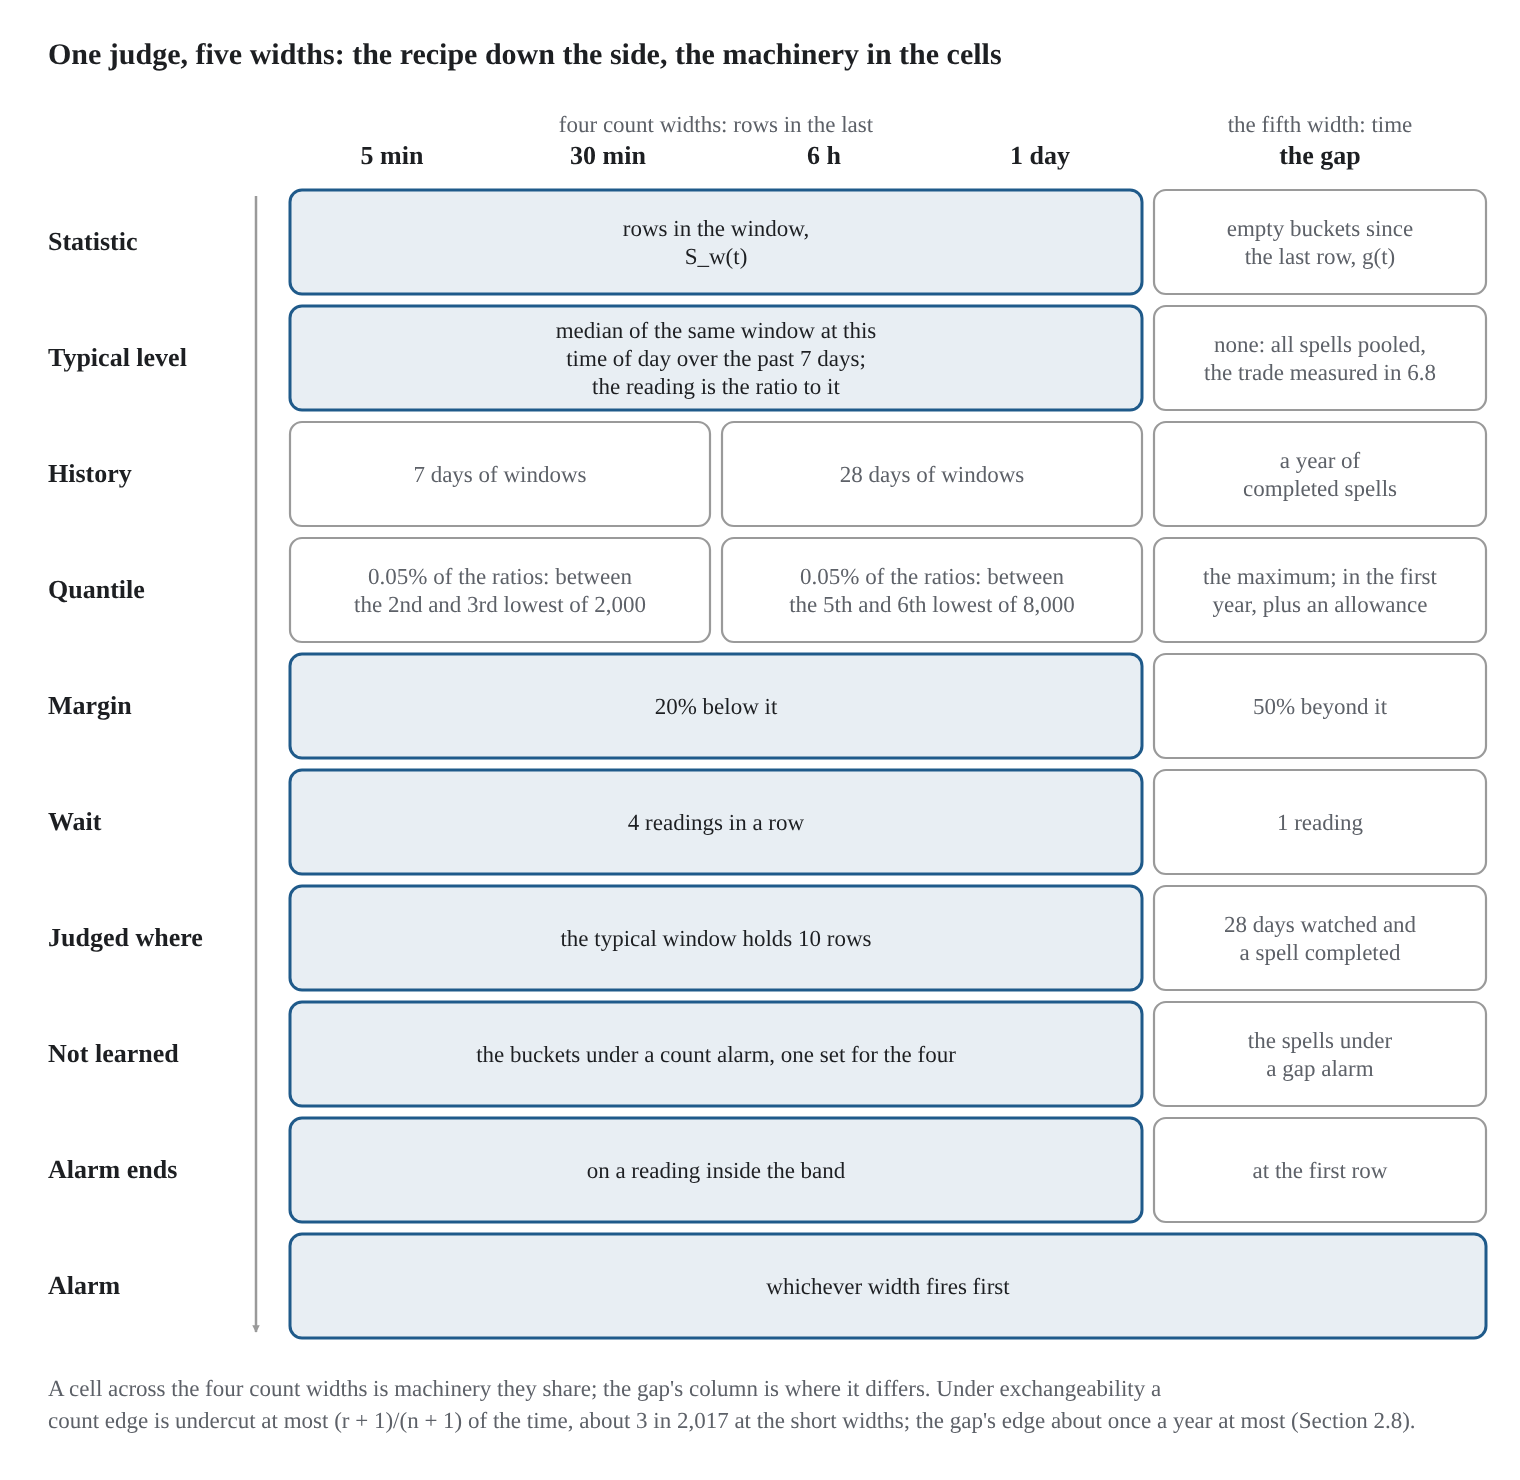
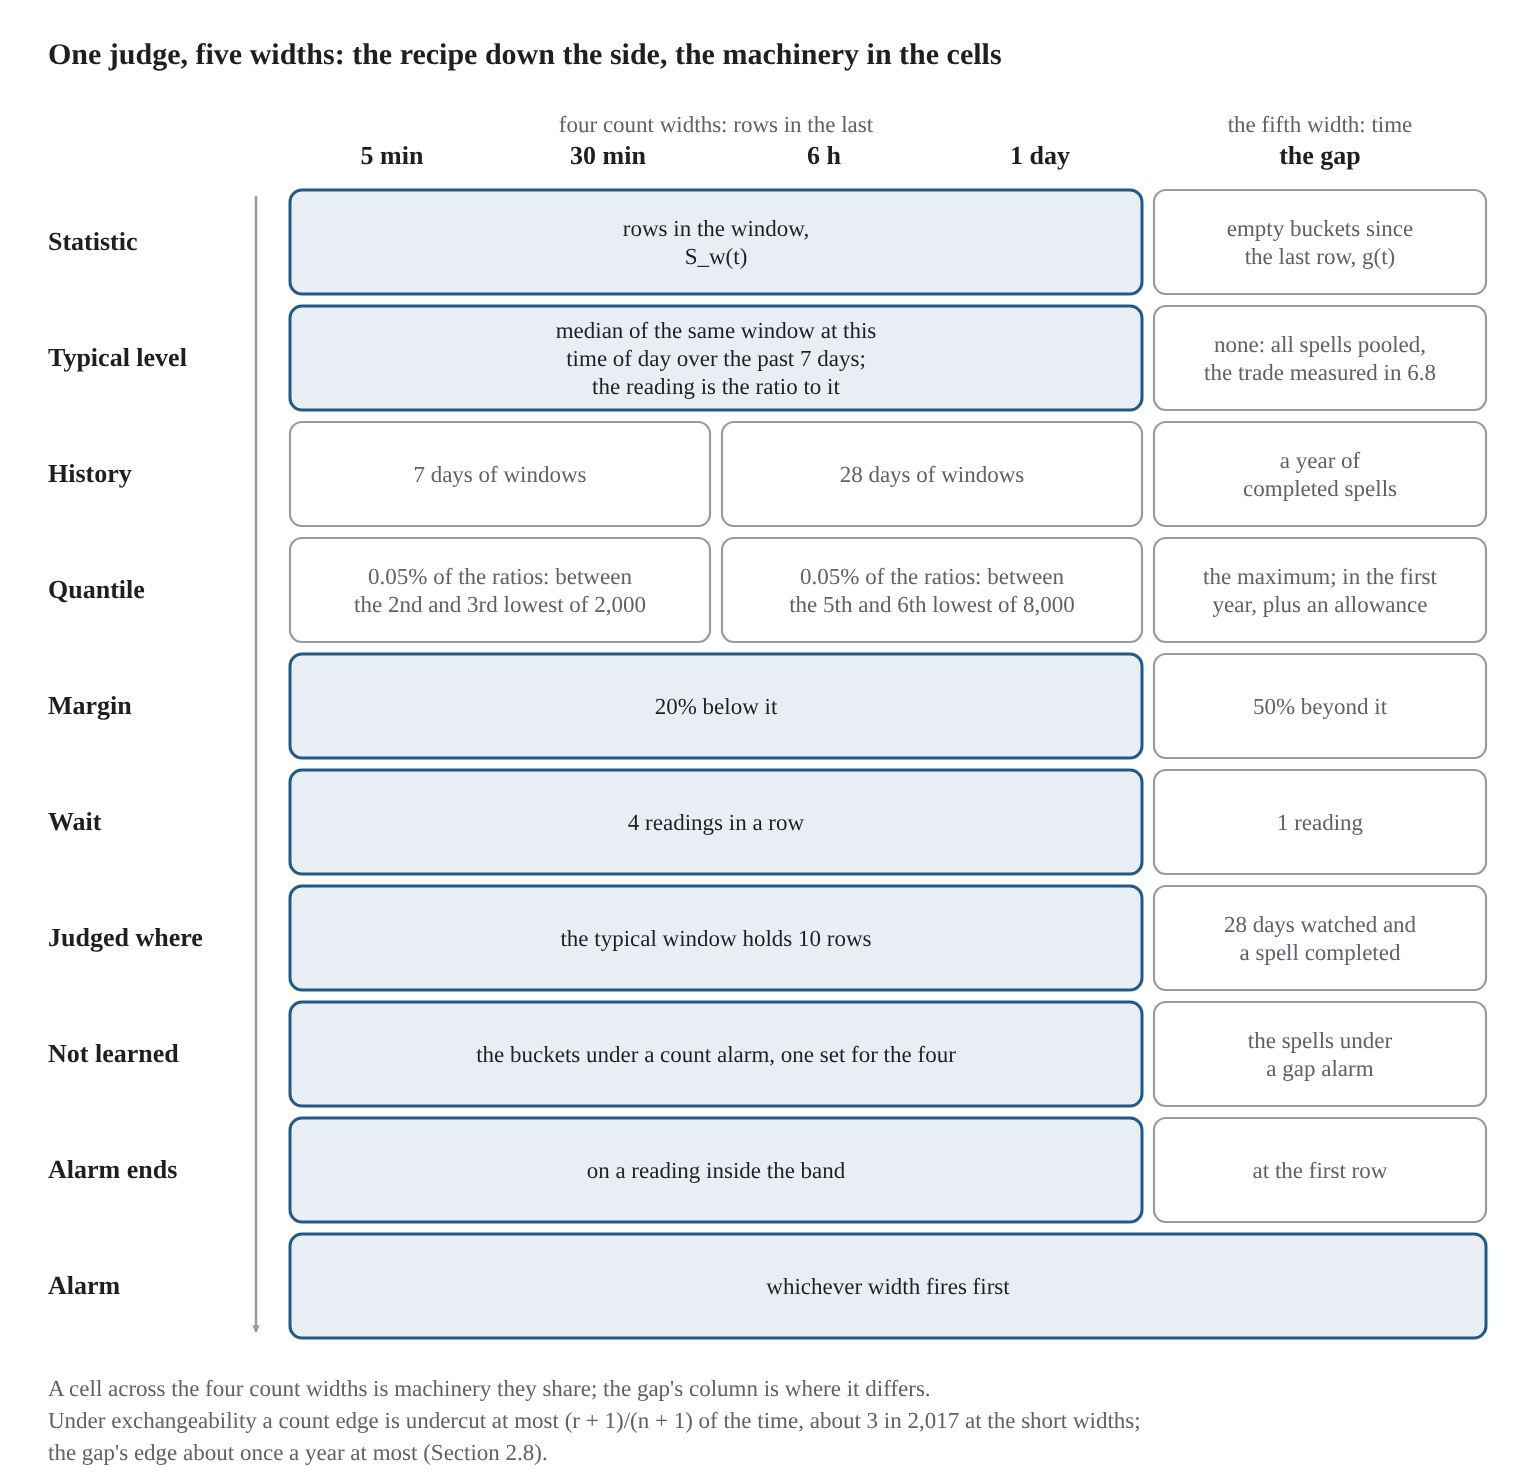
Normal detector paper: wrap Figure 1's note onto three lines
The second line ran past the figure's right edge.

Claude-Session: https://claude.ai/code/session_016X7h2Sq8GvdEAViup8sqLr

Changed region(s): [[0.0309, 0.9324, 0.773, 0.9946]]

diff --git a/docs/research/normal-detector/lab/diagram_code.js b/docs/research/normal-detector/lab/diagram_code.js
@@ -1,1 +1,1 @@
-export default () => { const edge = 'var(--cds-chart-axis)', accent = 'var(--cds-chart-categorical-1)', ink = 'var(--cds-text-primary)', quiet = 'var(--cds-text-secondary)'; return <svg viewBox='0 0 760 722' role='img' aria-label='One judge at five widths: the recipe down the side, the machinery in the cells' fontSize='13'><defs><marker id='rec-arrow' viewBox='0 0 10 10' refX='9' refY='5' markerWidth='6' markerHeight='6' orient='auto-start-reverse'><path d='M0 0L10 5L0 10z' fill={edge}/></marker></defs><text x='24' y='32' fontSize='15' fontWeight='600' fill={ink}>One judge, five widths: the recipe down the side, the machinery in the cells</text><text x='358' y='66' textAnchor='middle' fontSize='11.5' fill={quiet}>four count widths: rows in the last</text><text x='196' y='82' textAnchor='middle' fontWeight='600' fill={ink}>5 min</text><text x='304' y='82' textAnchor='middle' fontWeight='600' fill={ink}>30 min</text><text x='412' y='82' textAnchor='middle' fontWeight='600' fill={ink}>6 h</text><text x='520' y='82' textAnchor='middle' fontWeight='600' fill={ink}>1 day</text><text x='660' y='66' textAnchor='middle' fontSize='11.5' fill={quiet}>the fifth width: time</text><text x='660' y='82' textAnchor='middle' fontWeight='600' fill={ink}>the gap</text><text x='24' y='125' fontWeight='600' fill={ink}>Statistic</text><rect x='145' y='95' width='426' height='52' rx='6' fill={accent} fillOpacity='0.1' stroke={accent} strokeWidth='1.5'/><text x='358' y='118' textAnchor='middle' fontSize='11.5' fill={ink}>rows in the window,</text><text x='358' y='132' textAnchor='middle' fontSize='11.5' fill={ink}>S_w(t)</text><rect x='577' y='95' width='166' height='52' rx='6' fill={accent} fillOpacity='0' stroke={edge} strokeWidth='1.1'/><text x='660' y='118' textAnchor='middle' fontSize='11.5' fill={quiet}>empty buckets since</text><text x='660' y='132' textAnchor='middle' fontSize='11.5' fill={quiet}>the last row, g(t)</text><text x='24' y='183' fontWeight='600' fill={ink}>Typical level</text><rect x='145' y='153' width='426' height='52' rx='6' fill={accent} fillOpacity='0.1' stroke={accent} strokeWidth='1.5'/><text x='358' y='169' textAnchor='middle' fontSize='11.5' fill={ink}>median of the same window at this</text><text x='358' y='183' textAnchor='middle' fontSize='11.5' fill={ink}>time of day over the past 7 days;</text><text x='358' y='197' textAnchor='middle' fontSize='11.5' fill={ink}>the reading is the ratio to it</text><rect x='577' y='153' width='166' height='52' rx='6' fill={accent} fillOpacity='0' stroke={edge} strokeWidth='1.1'/><text x='660' y='176' textAnchor='middle' fontSize='11.5' fill={quiet}>none: all spells pooled,</text><text x='660' y='190' textAnchor='middle' fontSize='11.5' fill={quiet}>the trade measured in 6.8</text><text x='24' y='241' fontWeight='600' fill={ink}>History</text><rect x='145' y='211' width='210' height='52' rx='6' fill={accent} fillOpacity='0' stroke={edge} strokeWidth='1.1'/><text x='250' y='241' textAnchor='middle' fontSize='11.5' fill={quiet}>7 days of windows</text><rect x='361' y='211' width='210' height='52' rx='6' fill={accent} fillOpacity='0' stroke={edge} strokeWidth='1.1'/><text x='466' y='241' textAnchor='middle' fontSize='11.5' fill={quiet}>28 days of windows</text><rect x='577' y='211' width='166' height='52' rx='6' fill={accent} fillOpacity='0' stroke={edge} strokeWidth='1.1'/><text x='660' y='234' textAnchor='middle' fontSize='11.5' fill={quiet}>a year of</text><text x='660' y='248' textAnchor='middle' fontSize='11.5' fill={quiet}>completed spells</text><text x='24' y='299' fontWeight='600' fill={ink}>Quantile</text><rect x='145' y='269' width='210' height='52' rx='6' fill={accent} fillOpacity='0' stroke={edge} strokeWidth='1.1'/><text x='250' y='292' textAnchor='middle' fontSize='11.5' fill={quiet}>0.05% of the ratios: between</text><text x='250' y='306' textAnchor='middle' fontSize='11.5' fill={quiet}>the 2nd and 3rd lowest of 2,000</text><rect x='361' y='269' width='210' height='52' rx='6' fill={accent} fillOpacity='0' stroke={edge} strokeWidth='1.1'/><text x='466' y='292' textAnchor='middle' fontSize='11.5' fill={quiet}>0.05% of the ratios: between</text><text x='466' y='306' textAnchor='middle' fontSize='11.5' fill={quiet}>the 5th and 6th lowest of 8,000</text><rect x='577' y='269' width='166' height='52' rx='6' fill={accent} fillOpacity='0' stroke={edge} strokeWidth='1.1'/><text x='660' y='292' textAnchor='middle' fontSize='11.5' fill={quiet}>the maximum; in the first</text><text x='660' y='306' textAnchor='middle' fontSize='11.5' fill={quiet}>year, plus an allowance</text><text x='24' y='357' fontWeight='600' fill={ink}>Margin</text><rect x='145' y='327' width='426' height='52' rx='6' fill={accent} fillOpacity='0.1' stroke={accent} strokeWidth='1.5'/><text x='358' y='357' textAnchor='middle' fontSize='11.5' fill={ink}>20% below it</text><rect x='577' y='327' width='166' height='52' rx='6' fill={accent} fillOpacity='0' stroke={edge} strokeWidth='1.1'/><text x='660' y='357' textAnchor='middle' fontSize='11.5' fill={quiet}>50% beyond it</text><text x='24' y='415' fontWeight='600' fill={ink}>Wait</text><rect x='145' y='385' width='426' height='52' rx='6' fill={accent} fillOpacity='0.1' stroke={accent} strokeWidth='1.5'/><text x='358' y='415' textAnchor='middle' fontSize='11.5' fill={ink}>4 readings in a row</text><rect x='577' y='385' width='166' height='52' rx='6' fill={accent} fillOpacity='0' stroke={edge} strokeWidth='1.1'/><text x='660' y='415' textAnchor='middle' fontSize='11.5' fill={quiet}>1 reading</text><text x='24' y='473' fontWeight='600' fill={ink}>Judged where</text><rect x='145' y='443' width='426' height='52' rx='6' fill={accent} fillOpacity='0.1' stroke={accent} strokeWidth='1.5'/><text x='358' y='473' textAnchor='middle' fontSize='11.5' fill={ink}>the typical window holds 10 rows</text><rect x='577' y='443' width='166' height='52' rx='6' fill={accent} fillOpacity='0' stroke={edge} strokeWidth='1.1'/><text x='660' y='466' textAnchor='middle' fontSize='11.5' fill={quiet}>28 days watched and</text><text x='660' y='480' textAnchor='middle' fontSize='11.5' fill={quiet}>a spell completed</text><text x='24' y='531' fontWeight='600' fill={ink}>Not learned</text><rect x='145' y='501' width='426' height='52' rx='6' fill={accent} fillOpacity='0.1' stroke={accent} strokeWidth='1.5'/><text x='358' y='531' textAnchor='middle' fontSize='11.5' fill={ink}>the buckets under a count alarm, one set for the four</text><rect x='577' y='501' width='166' height='52' rx='6' fill={accent} fillOpacity='0' stroke={edge} strokeWidth='1.1'/><text x='660' y='524' textAnchor='middle' fontSize='11.5' fill={quiet}>the spells under</text><text x='660' y='538' textAnchor='middle' fontSize='11.5' fill={quiet}>a gap alarm</text><text x='24' y='589' fontWeight='600' fill={ink}>Alarm ends</text><rect x='145' y='559' width='426' height='52' rx='6' fill={accent} fillOpacity='0.1' stroke={accent} strokeWidth='1.5'/><text x='358' y='589' textAnchor='middle' fontSize='11.5' fill={ink}>on a reading inside the band</text><rect x='577' y='559' width='166' height='52' rx='6' fill={accent} fillOpacity='0' stroke={edge} strokeWidth='1.1'/><text x='660' y='589' textAnchor='middle' fontSize='11.5' fill={quiet}>at the first row</text><text x='24' y='647' fontWeight='600' fill={ink}>Alarm</text><rect x='145' y='617' width='598' height='52' rx='6' fill={accent} fillOpacity='0.1' stroke={accent} strokeWidth='1.5'/><text x='444' y='647' textAnchor='middle' fontSize='11.5' fill={ink}>whichever width fires first</text><path d='M128 98V666' stroke={edge} strokeWidth='1.25' fill='none' markerEnd='url(#rec-arrow)'/><text x='24' y='698' fontSize='11.5' fill={quiet}>A cell across the four count widths is machinery they share; the gap's column is where it differs. Under exchangeability a</text><text x='24' y='714' fontSize='11.5' fill={quiet}>count edge is undercut at most (r + 1)/(n + 1) of the time, about 3 in 2,017 at the short widths; the gap's edge about once a year at most (Section 2.8).</text></svg>; };
+export default () => { const edge = 'var(--cds-chart-axis)', accent = 'var(--cds-chart-categorical-1)', ink = 'var(--cds-text-primary)', quiet = 'var(--cds-text-secondary)'; return <svg viewBox='0 0 760 738' role='img' aria-label='One judge at five widths: the recipe down the side, the machinery in the cells' fontSize='13'><defs><marker id='rec-arrow' viewBox='0 0 10 10' refX='9' refY='5' markerWidth='6' markerHeight='6' orient='auto-start-reverse'><path d='M0 0L10 5L0 10z' fill={edge}/></marker></defs><text x='24' y='32' fontSize='15' fontWeight='600' fill={ink}>One judge, five widths: the recipe down the side, the machinery in the cells</text><text x='358' y='66' textAnchor='middle' fontSize='11.5' fill={quiet}>four count widths: rows in the last</text><text x='196' y='82' textAnchor='middle' fontWeight='600' fill={ink}>5 min</text><text x='304' y='82' textAnchor='middle' fontWeight='600' fill={ink}>30 min</text><text x='412' y='82' textAnchor='middle' fontWeight='600' fill={ink}>6 h</text><text x='520' y='82' textAnchor='middle' fontWeight='600' fill={ink}>1 day</text><text x='660' y='66' textAnchor='middle' fontSize='11.5' fill={quiet}>the fifth width: time</text><text x='660' y='82' textAnchor='middle' fontWeight='600' fill={ink}>the gap</text><text x='24' y='125' fontWeight='600' fill={ink}>Statistic</text><rect x='145' y='95' width='426' height='52' rx='6' fill={accent} fillOpacity='0.1' stroke={accent} strokeWidth='1.5'/><text x='358' y='118' textAnchor='middle' fontSize='11.5' fill={ink}>rows in the window,</text><text x='358' y='132' textAnchor='middle' fontSize='11.5' fill={ink}>S_w(t)</text><rect x='577' y='95' width='166' height='52' rx='6' fill={accent} fillOpacity='0' stroke={edge} strokeWidth='1.1'/><text x='660' y='118' textAnchor='middle' fontSize='11.5' fill={quiet}>empty buckets since</text><text x='660' y='132' textAnchor='middle' fontSize='11.5' fill={quiet}>the last row, g(t)</text><text x='24' y='183' fontWeight='600' fill={ink}>Typical level</text><rect x='145' y='153' width='426' height='52' rx='6' fill={accent} fillOpacity='0.1' stroke={accent} strokeWidth='1.5'/><text x='358' y='169' textAnchor='middle' fontSize='11.5' fill={ink}>median of the same window at this</text><text x='358' y='183' textAnchor='middle' fontSize='11.5' fill={ink}>time of day over the past 7 days;</text><text x='358' y='197' textAnchor='middle' fontSize='11.5' fill={ink}>the reading is the ratio to it</text><rect x='577' y='153' width='166' height='52' rx='6' fill={accent} fillOpacity='0' stroke={edge} strokeWidth='1.1'/><text x='660' y='176' textAnchor='middle' fontSize='11.5' fill={quiet}>none: all spells pooled,</text><text x='660' y='190' textAnchor='middle' fontSize='11.5' fill={quiet}>the trade measured in 6.8</text><text x='24' y='241' fontWeight='600' fill={ink}>History</text><rect x='145' y='211' width='210' height='52' rx='6' fill={accent} fillOpacity='0' stroke={edge} strokeWidth='1.1'/><text x='250' y='241' textAnchor='middle' fontSize='11.5' fill={quiet}>7 days of windows</text><rect x='361' y='211' width='210' height='52' rx='6' fill={accent} fillOpacity='0' stroke={edge} strokeWidth='1.1'/><text x='466' y='241' textAnchor='middle' fontSize='11.5' fill={quiet}>28 days of windows</text><rect x='577' y='211' width='166' height='52' rx='6' fill={accent} fillOpacity='0' stroke={edge} strokeWidth='1.1'/><text x='660' y='234' textAnchor='middle' fontSize='11.5' fill={quiet}>a year of</text><text x='660' y='248' textAnchor='middle' fontSize='11.5' fill={quiet}>completed spells</text><text x='24' y='299' fontWeight='600' fill={ink}>Quantile</text><rect x='145' y='269' width='210' height='52' rx='6' fill={accent} fillOpacity='0' stroke={edge} strokeWidth='1.1'/><text x='250' y='292' textAnchor='middle' fontSize='11.5' fill={quiet}>0.05% of the ratios: between</text><text x='250' y='306' textAnchor='middle' fontSize='11.5' fill={quiet}>the 2nd and 3rd lowest of 2,000</text><rect x='361' y='269' width='210' height='52' rx='6' fill={accent} fillOpacity='0' stroke={edge} strokeWidth='1.1'/><text x='466' y='292' textAnchor='middle' fontSize='11.5' fill={quiet}>0.05% of the ratios: between</text><text x='466' y='306' textAnchor='middle' fontSize='11.5' fill={quiet}>the 5th and 6th lowest of 8,000</text><rect x='577' y='269' width='166' height='52' rx='6' fill={accent} fillOpacity='0' stroke={edge} strokeWidth='1.1'/><text x='660' y='292' textAnchor='middle' fontSize='11.5' fill={quiet}>the maximum; in the first</text><text x='660' y='306' textAnchor='middle' fontSize='11.5' fill={quiet}>year, plus an allowance</text><text x='24' y='357' fontWeight='600' fill={ink}>Margin</text><rect x='145' y='327' width='426' height='52' rx='6' fill={accent} fillOpacity='0.1' stroke={accent} strokeWidth='1.5'/><text x='358' y='357' textAnchor='middle' fontSize='11.5' fill={ink}>20% below it</text><rect x='577' y='327' width='166' height='52' rx='6' fill={accent} fillOpacity='0' stroke={edge} strokeWidth='1.1'/><text x='660' y='357' textAnchor='middle' fontSize='11.5' fill={quiet}>50% beyond it</text><text x='24' y='415' fontWeight='600' fill={ink}>Wait</text><rect x='145' y='385' width='426' height='52' rx='6' fill={accent} fillOpacity='0.1' stroke={accent} strokeWidth='1.5'/><text x='358' y='415' textAnchor='middle' fontSize='11.5' fill={ink}>4 readings in a row</text><rect x='577' y='385' width='166' height='52' rx='6' fill={accent} fillOpacity='0' stroke={edge} strokeWidth='1.1'/><text x='660' y='415' textAnchor='middle' fontSize='11.5' fill={quiet}>1 reading</text><text x='24' y='473' fontWeight='600' fill={ink}>Judged where</text><rect x='145' y='443' width='426' height='52' rx='6' fill={accent} fillOpacity='0.1' stroke={accent} strokeWidth='1.5'/><text x='358' y='473' textAnchor='middle' fontSize='11.5' fill={ink}>the typical window holds 10 rows</text><rect x='577' y='443' width='166' height='52' rx='6' fill={accent} fillOpacity='0' stroke={edge} strokeWidth='1.1'/><text x='660' y='466' textAnchor='middle' fontSize='11.5' fill={quiet}>28 days watched and</text><text x='660' y='480' textAnchor='middle' fontSize='11.5' fill={quiet}>a spell completed</text><text x='24' y='531' fontWeight='600' fill={ink}>Not learned</text><rect x='145' y='501' width='426' height='52' rx='6' fill={accent} fillOpacity='0.1' stroke={accent} strokeWidth='1.5'/><text x='358' y='531' textAnchor='middle' fontSize='11.5' fill={ink}>the buckets under a count alarm, one set for the four</text><rect x='577' y='501' width='166' height='52' rx='6' fill={accent} fillOpacity='0' stroke={edge} strokeWidth='1.1'/><text x='660' y='524' textAnchor='middle' fontSize='11.5' fill={quiet}>the spells under</text><text x='660' y='538' textAnchor='middle' fontSize='11.5' fill={quiet}>a gap alarm</text><text x='24' y='589' fontWeight='600' fill={ink}>Alarm ends</text><rect x='145' y='559' width='426' height='52' rx='6' fill={accent} fillOpacity='0.1' stroke={accent} strokeWidth='1.5'/><text x='358' y='589' textAnchor='middle' fontSize='11.5' fill={ink}>on a reading inside the band</text><rect x='577' y='559' width='166' height='52' rx='6' fill={accent} fillOpacity='0' stroke={edge} strokeWidth='1.1'/><text x='660' y='589' textAnchor='middle' fontSize='11.5' fill={quiet}>at the first row</text><text x='24' y='647' fontWeight='600' fill={ink}>Alarm</text><rect x='145' y='617' width='598' height='52' rx='6' fill={accent} fillOpacity='0.1' stroke={accent} strokeWidth='1.5'/><text x='444' y='647' textAnchor='middle' fontSize='11.5' fill={ink}>whichever width fires first</text><path d='M128 98V666' stroke={edge} strokeWidth='1.25' fill='none' markerEnd='url(#rec-arrow)'/><text x='24' y='698' fontSize='11.5' fill={quiet}>A cell across the four count widths is machinery they share; the gap's column is where it differs.</text><text x='24' y='714' fontSize='11.5' fill={quiet}>Under exchangeability a count edge is undercut at most (r + 1)/(n + 1) of the time, about 3 in 2,017 at the short widths;</text><text x='24' y='730' fontSize='11.5' fill={quiet}>the gap's edge about once a year at most (Section 2.8).</text></svg>; };

diff --git a/docs/research/normal-detector/lab/gen_diagram.py b/docs/research/normal-detector/lab/gen_diagram.py
@@ -17,7 +17,7 @@ rows=[
 ]
 def svg(ink,quiet,edge,accent,jsx):
     o=[]; A=lambda s:o.append(s)
-    H=TOP+len(rows)*RH+50
+    H=TOP+len(rows)*RH+66
     q=lambda s: html.escape(s,quote=True)
     A(f"<svg viewBox='0 0 {W} {H}' role='img' aria-label='One judge at five widths: the recipe down the side, the machinery in the cells' fontSize='13'>")
     A(f"<text x='{X0}' y='32' fontSize='15' fontWeight='600' fill='{ink}'>One judge, five widths: the recipe down the side, the machinery in the cells</text>")
@@ -39,8 +39,9 @@ def svg(ink,quiet,edge,accent,jsx):
                 A(f"<text x='{(x1+x2)//2}' y='{ty:.0f}' textAnchor='middle' fontSize='{fs}' fill='{ink if shared else quiet}'>{q(t)}</text>")
     # recipe arrow down the side
     ax=X0+LAB-14; A(f"<path d='M{ax} {TOP+6}V{TOP+len(rows)*RH-6}' stroke='{edge}' strokeWidth='1.25' fill='none' markerEnd='url(#rec-arrow)'/>")
-    A(f"<text x='{X0}' y='{H-24}' fontSize='11.5' fill='{quiet}'>A cell across the four count widths is machinery they share; the gap's column is where it differs. Under exchangeability a</text>")
-    A(f"<text x='{X0}' y='{H-8}' fontSize='11.5' fill='{quiet}'>count edge is undercut at most (r + 1)/(n + 1) of the time, about 3 in 2,017 at the short widths; the gap's edge about once a year at most (Section 2.8).</text>")
+    A(f"<text x='{X0}' y='{H-40}' fontSize='11.5' fill='{quiet}'>A cell across the four count widths is machinery they share; the gap's column is where it differs.</text>")
+    A(f"<text x='{X0}' y='{H-24}' fontSize='11.5' fill='{quiet}'>Under exchangeability a count edge is undercut at most (r + 1)/(n + 1) of the time, about 3 in 2,017 at the short widths;</text>")
+    A(f"<text x='{X0}' y='{H-8}' fontSize='11.5' fill='{quiet}'>the gap's edge about once a year at most (Section 2.8).</text>")
     A("</svg>")
     s="\n".join(o)
     s=s.replace("<svg ",f"<svg xmlns='http://www.w3.org/2000/svg' ",1) if not jsx else s
